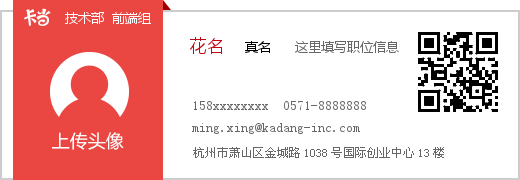
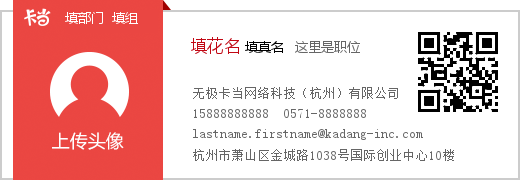
添加下载功能

diff --git a/js/index.js b/js/index.js
@@ -35,17 +35,33 @@
         .parent().addClass($.support.fileInput ? undefined : 'disabled');
 
     $("#CreateCard").click(function(){
-        var params = $("#CardForm").serialize();
+        var inps = $("input[placeholder!='']");
+        var params = "";
         // var api = createApi + "?" + params + "&callback=?";
-        var api = createApi + "?" + params;
-        // $.ajax({
-        //     "url": api,
-        //     "dataType": "jsonp",
-        //     "success": function(data){
-        //         $("body").append('<img src="' + data.card["card_url"] + '">');
-        //     }
-        // });
-        $("#Result").html('<img src="' + api + '">');
+        var api = "";
+        var emps = [];
+        inps.each(function(index, item){
+            if ($(item).attr("placeholder") === $(item).val()) {
+                $(item).val("");
+                emps.push(item);
+            }
+        });
+        params = $("#CardForm").serialize();
+        api = createApi + "?" + params;
+        $.each(emps, function(index, item){
+            $(item).val($(item).attr("placeholder"));
+        });
+        // $("#Result").html('<img src="' + api + '">');
+        $.ajax({
+            url: api + "&callback=?",
+            dataType: "jsonp",
+            success: function(data){
+                if (data && data.card) {
+                    $("#Result").html('<img src="' + data.card + '">');
+                    $("#DownCard").attr("href", "./download.php?pic=" + encodeURIComponent(data.card)).parent().css("display", "block");
+                }
+            }
+        })
     });
 
     if(!("placeholder" in document.createElement("input"))){

diff --git a/css/index.css b/css/index.css
@@ -30,6 +30,10 @@
     display: none;
 }
 
+body {
+    font-size: 12px;
+}
+
 .card,
 .help {
     font-family: '\5fae\8f6f\96c5\9ed1', "Microsoft YaHei", Tahoma, san-serif;
@@ -53,7 +57,7 @@
 }
 
 .card .text-box .text-main {
-    padding-top: 30px;
+    padding-top: 25px;
     padding-right: 20px;
     padding-left: 190px;
 }
@@ -73,14 +77,14 @@
 }
 
 .card .text-box .contact {
-    margin-top: 10px;
+    margin-top: 5px;
     margin-bottom: 5px;
     color: #999;
     font-size: 12px;
 }
 
 .card .text-box .text-main .line2 {
-    margin: 0;
+    margin-bottom: 5px;
 }
 
 .card .text-box .userbu {
@@ -88,7 +92,6 @@
 }
 
 .card .text-box .address {
-    margin-top: 5px;
     margin-bottom: 0;
     color: #999;
 }
@@ -131,12 +134,15 @@
 .card .head-area .user-info {
     position: absolute;
     left: 58px;
-    top: 6px;
+    top: 7px;
 }
 
 .short-text,
-.long-text {
-    height: 24px;
+.long-text,
+.long-long-text,
+.mini-text,
+.big-text {
+    height: 20px;
 }
 
 .short-text {
@@ -153,6 +159,10 @@
     width: 110px;
 }
 
+.long-long-text {
+    width: 200px;
+}
+
 .big-text {
     width: 150px;
 }
@@ -166,7 +176,12 @@
 }
 
 .result {
-    padding-top: 10px;
+    padding: 10px 0;
+    text-align: center;
+}
+
+.download {
+    display: none;
     text-align: center;
 }
 

diff --git a/index.php b/index.php
@@ -29,13 +29,25 @@
                         </p> -->
                     </div>
                     <p class="contact">
-                        <input type="text" class="big-text" name="phone" id="Phone" placeholder="电话号码">
+                        <select class="long-long-text" name="company" id="Company" style="width: 220px;">
+                            <option value="无极卡当网络科技（杭州）有限公司">无极卡当网络科技（杭州）有限公司</option>
+                            <option value="杭州卡当礼品有限公司">杭州卡当礼品有限公司</option>
+                            <option value="杭州皆可定网络科技有限公司">杭州皆可定网络科技有限公司</option>
+                        </select>
                     </p>
                     <p class="contact line2">
-                        <input type="text" class="big-text" name="email" id="Email" placeholder="电子邮件">
+                        <input type="text" class="big-text" name="phone" id="Phone" placeholder="电话、QQ">
+                    </p>
+                    <p class="contact line2">
+                        <input type="text" class="long-long-text" name="email" id="Email" placeholder="电子邮件">
                     </p>
                     <p class="address">
-                        杭州市萧山区金城路1038号国际创业中心13楼
+                        杭州市萧山区金城路1038号国际创业中心
+                        <select class="mini-text" name="floor" id="Floor">
+                            <option value="13">13</option>
+                            <option value="10">10</option>
+                        </select>
+                        楼
                     </p>
                 </div>
             </div>
@@ -64,6 +76,9 @@
         <input type="button" id="CreateCard" value="生成名片" class="btn btn-primary">
     </div>
     <div class="result" id="Result"></div>
+    <div class="download" id="Download">
+        <a href="javascript:void(0);" id="DownCard" class="btn btn-success">下载名片</a>
+    </div>
     <div class="help">
         <h3 class="help-title">使用说明</h3>
         <div class="help-content">

diff --git a/createCard.php b/createCard.php
@@ -45,17 +45,19 @@
 
     function echoImage($mime, $source) {
         $ext = explode("/", $mime)[1];
+        $fname = "./profiles/" . date("dMYHis") . "." . $ext;
         switch($ext) {
             case "png":
-                imagepng($source);
+                imagepng($source, $fname);
                 break;
             case "jpeg":
-                imagejpeg($source);
+                imagejpeg($source, $fname);
                 break;
             case "gif":
-                imagegif($source);
+                imagegif($source, $fname);
                 break;
         }
+        return $fname;
     }
 
     date_default_timezone_set("PRC");
@@ -70,6 +72,8 @@
     $group = htmlspecialchars($_GET["group"]);
     $phone = htmlspecialchars($_GET["phone"]);
     $email = htmlspecialchars($_GET["email"]);
+    $com = htmlspecialchars($_GET["company"]);
+    $floor = "杭州市萧山区金城路1038号国际创业中心" . htmlspecialchars($_GET["floor"]) . "楼";
 
     $headsize = getimagesize($head);
     $tplsize = getimagesize($tpl);
@@ -93,11 +97,14 @@
     imagettftext($tplsource, 13, 0, 190, 52, $red, $yahei, $nick);
     imagettftext($tplsource, 10, 0, 245, 52, $dark, $yahei, $name);
     imagettftext($tplsource, 10, 0, 295, 52, $gray, $yahei, $post);
+    imagettftext($tplsource, 10, 0, 192, 98, $gray, $sontti, $com);
     // imagettftext($tplsource, 10, 0, 290, 46, $gray, $yahei, $tid);
     // imagettftext($tplsource, 10, 0, 410, 46, $gray, $yahei, $group);
-    imagettftext($tplsource, 10, 0, 192, 110, $gray, $sontti, $phone);
-    imagettftext($tplsource, 10, 0, 192, 132, $gray, $sontti, $email);
+    imagettftext($tplsource, 10, 0, 192, 118, $gray, $sontti, $phone);
+    imagettftext($tplsource, 10, 0, 192, 138, $gray, $sontti, $email);
+    imagettftext($tplsource, 10, 0, 192, 160, $gray, $sontti, $floor);
 
-    header("Content-Type: " . $tplsize["mime"]);
-    echoImage($tplsize["mime"], $tplsource);
+    // header("Content-Type: " . $tplsize["mime"]);
+    $src = echoImage($tplsize["mime"], $tplsource);
+    echo htmlspecialchars($_GET["callback"]) . "({\"card\":\"" . $src . "\"})";
 ?>

diff --git a/download.php b/download.php
@@ -1,0 +1,13 @@
+<?php
+
+    if (isset($_GET["pic"])) {
+        $file = $_GET["pic"];
+        $fsize = getimagesize($file);
+        header('Content-type: ' . $fsize['mime']);
+        header("Content-Disposition: attachment; filename=" . basename($file));
+        @readfile($file);
+        exit;
+    } else {
+        echo "下载失败！请在生成页面使用鼠标‘右键’—‘图片另存为...’";
+    }
+?>
